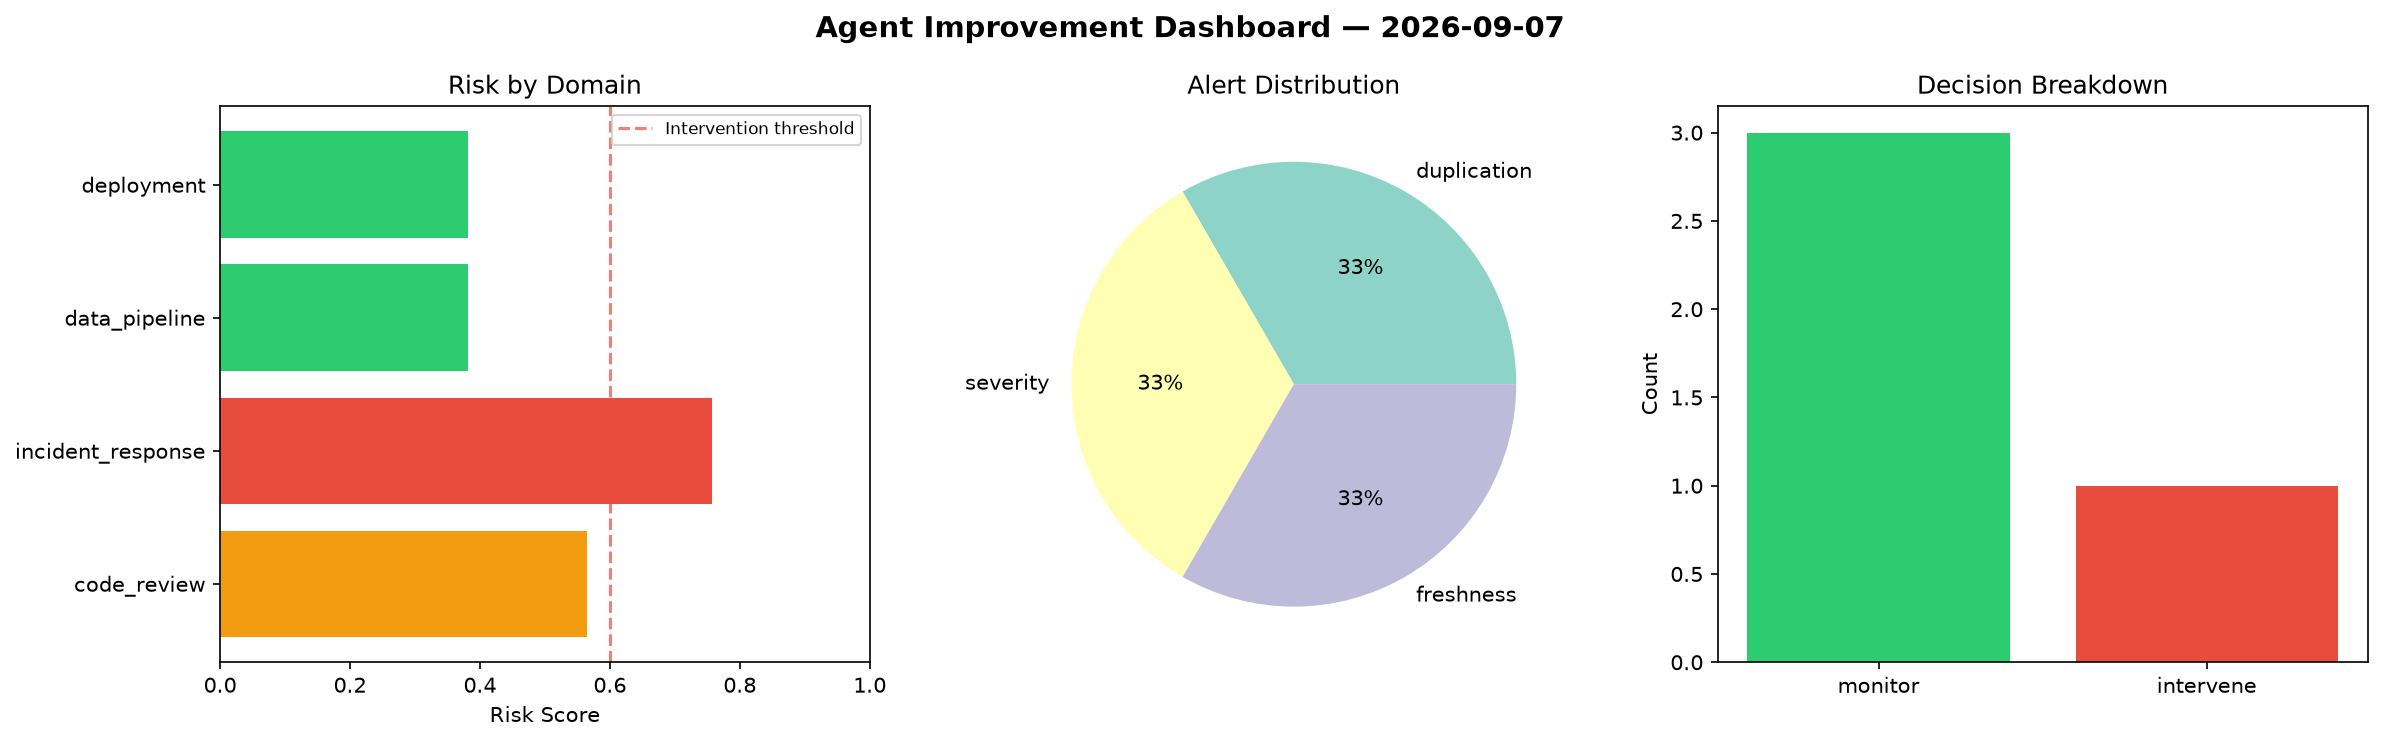
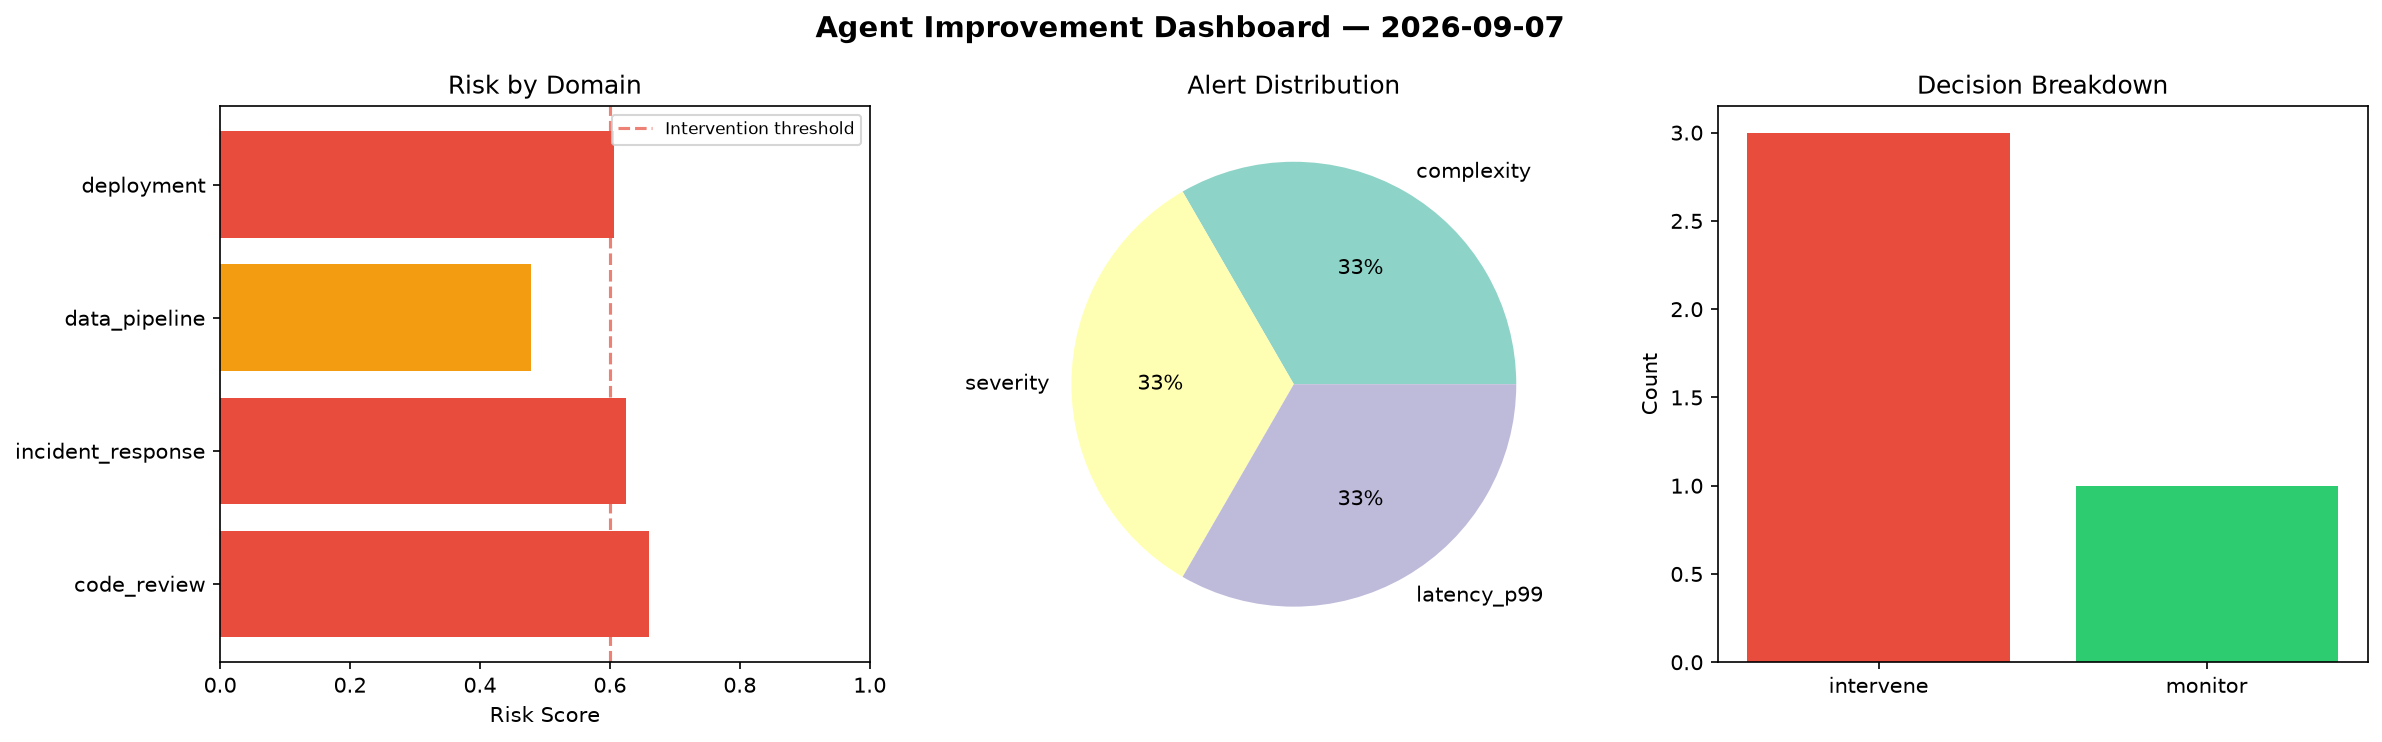
agent-improvement: daily cycle 2026-09-07T14:14

diff --git a/logs/2026-09-07.md b/logs/2026-09-07.md
@@ -1,6 +1,6 @@
 # Agent Improvement Report — 2026-09-07
 
-**Cycle ID:** `529b68bc` | **Avg Risk:** 0.5215 | **Interventions:** 1/4
+**Cycle ID:** `8236363c` | **Avg Risk:** 0.5925 | **Interventions:** 3/4
 
 ![Dashboard](2026-09-07_dashboard.png)
 
@@ -10,18 +10,18 @@
 
 | Domain | Risk Score | Decision | Alerts |
 |--------|-----------|----------|--------|
-| code_review | 0.5654 | monitor | duplication |
-| incident_response | 0.7575 | intervene | severity |
-| data_pipeline | 0.3811 | monitor | freshness |
-| deployment | 0.3819 | monitor | none |
+| code_review | 0.6605 | intervene | complexity |
+| incident_response | 0.6245 | intervene | severity |
+| data_pipeline | 0.478 | monitor | none |
+| deployment | 0.607 | intervene | latency_p99 |
 
 ## Delta vs Yesterday
 
 | Domain | Today | Yesterday | Change |
 |--------|-------|-----------|--------|
-| code_review | 0.5654 | 0.2512 | 📈 125.1% |
-| incident_response | 0.7575 | 0.4725 | 📈 60.3% |
-| data_pipeline | 0.3811 | 0.4722 | 📉 -19.3% |
-| deployment | 0.3819 | 0.6355 | 📉 -39.9% |
+| code_review | 0.6605 | 0.2512 | 📈 162.9% |
+| incident_response | 0.6245 | 0.4725 | 📈 32.2% |
+| data_pipeline | 0.478 | 0.4722 | 📈 1.2% |
+| deployment | 0.607 | 0.6355 | 📉 -4.5% |
 
 **Refinement:** `{'adjustment': 'maintain', 'trend': 'improving', 'window': 4}`
